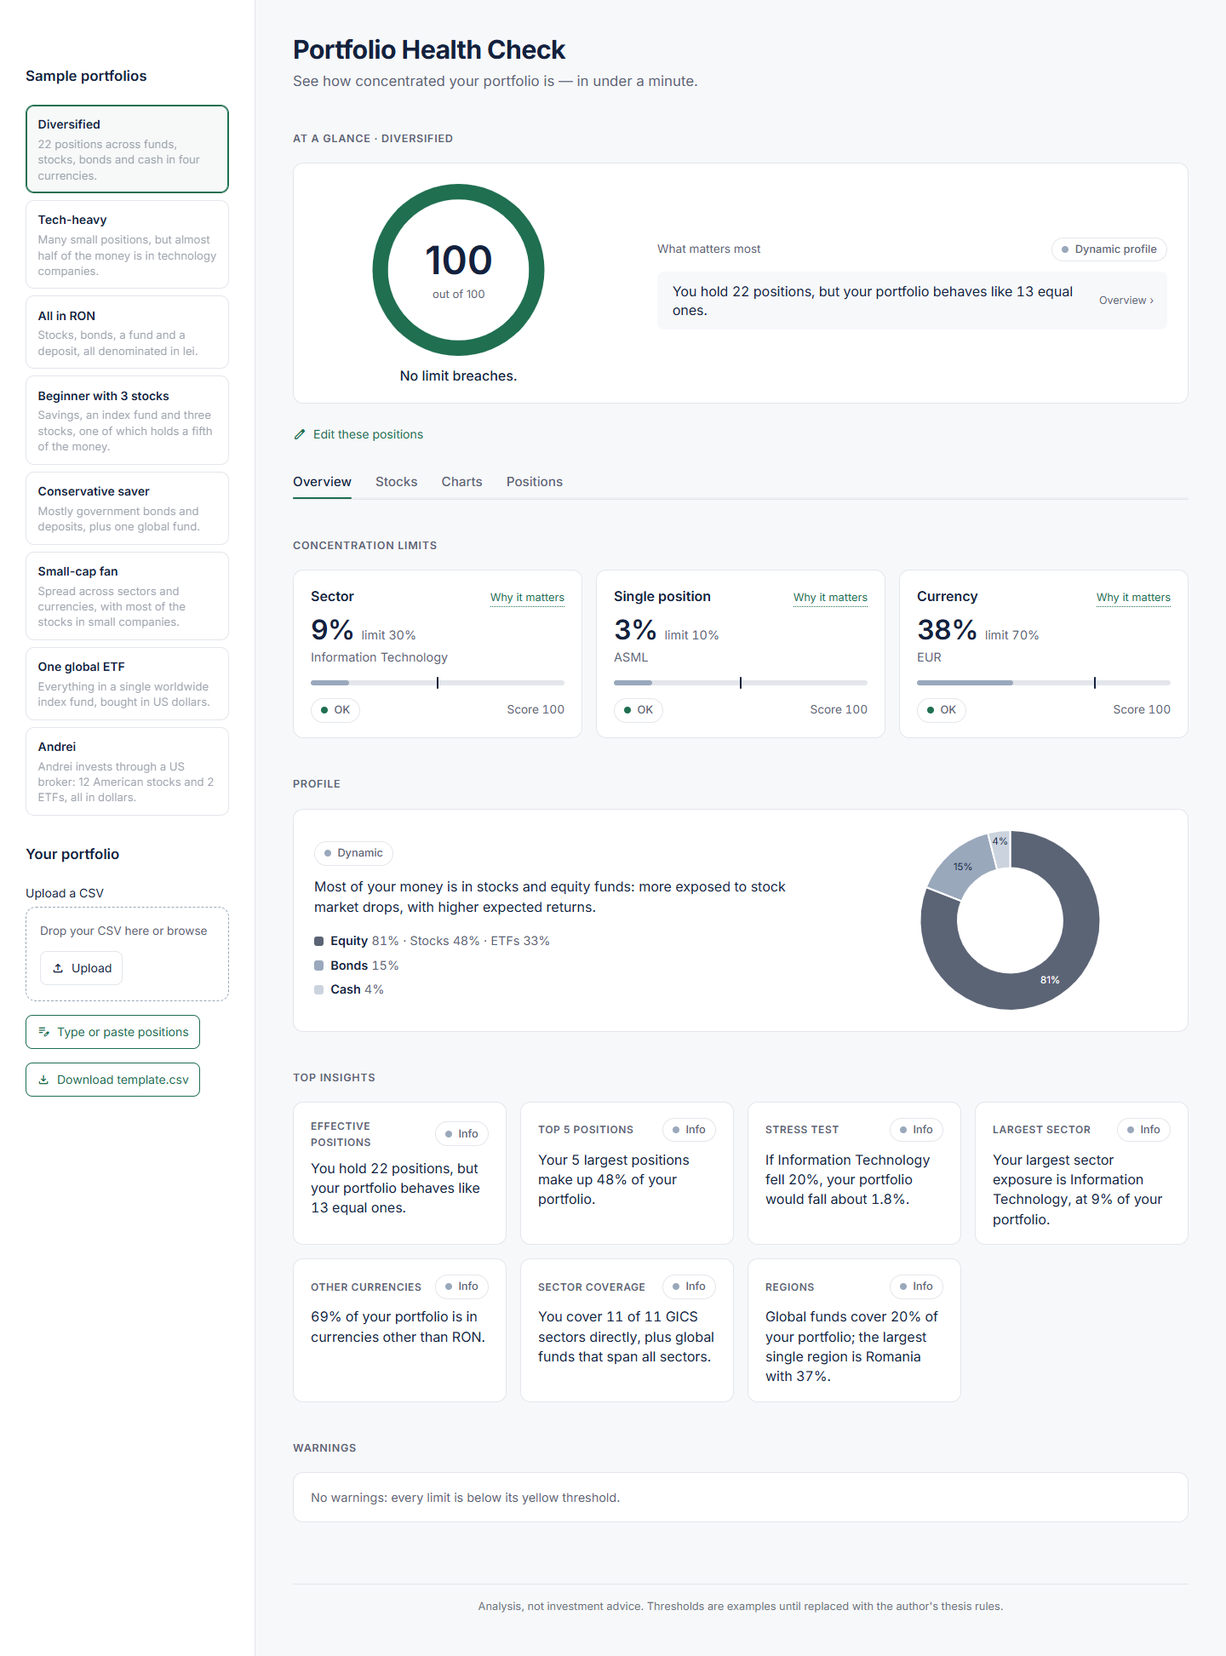
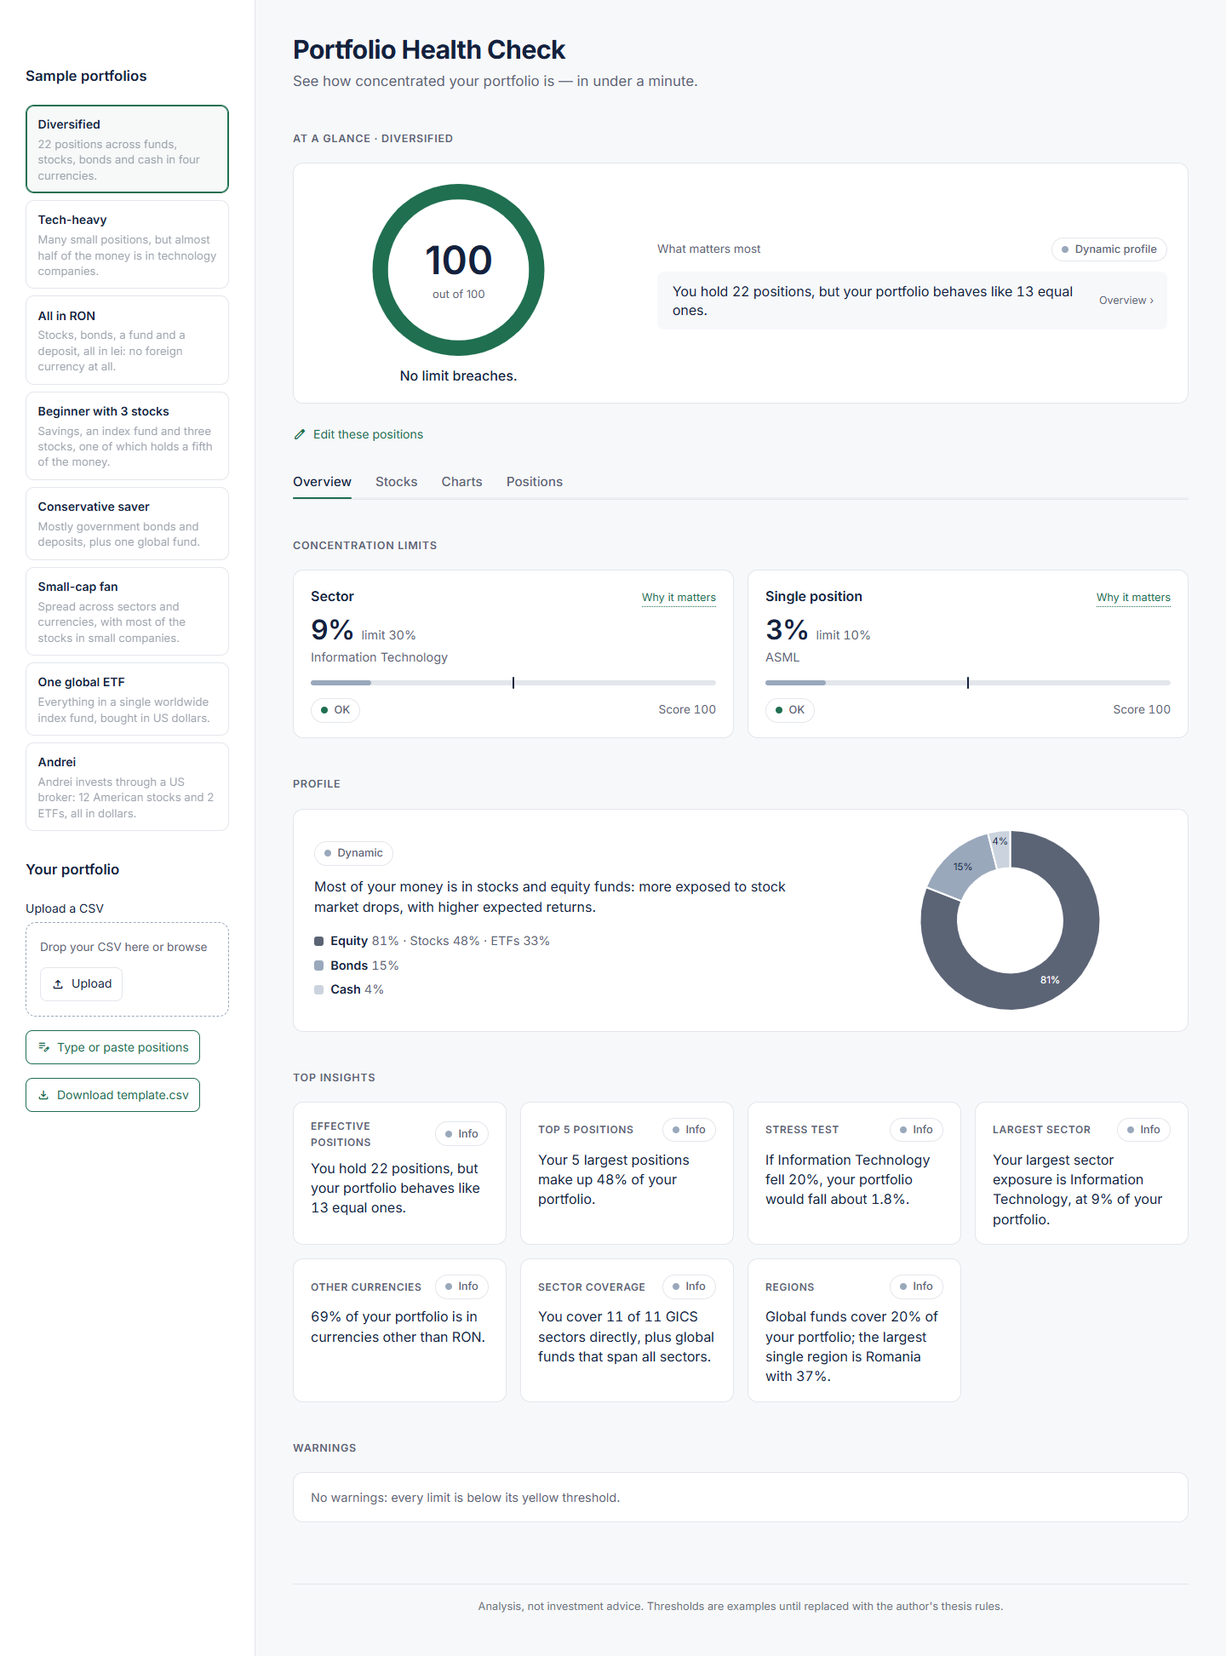
Make currency a note instead of a scored limit (S1-24, S1-16)
Currency no longer counts in the score: the score comes from the sector
and single-position limits. A neutral note appears when one foreign
currency holds a large share of the portfolio; the leu never counts.
Decision and sources in docs/decisions.md (D1).

diff --git a/tests/test_scoring.py b/tests/test_scoring.py
@@ -16,7 +16,6 @@ FIXTURES = Path(__file__).parent / "fixtures"
 
 SECTOR = rules.LIMITS["sector"]
 ASSET = rules.LIMITS["asset"]
-CURRENCY = rules.LIMITS["currency"]
 
 
 def make(rows, region=True):
@@ -37,16 +36,16 @@ def sample(file_name):
 # Sample portfolios: every expected result fixed explicitly
 # ---------------------------------------------------------------------------
 
-# file -> (sector, asset, currency, score, profile, notes)
+# file -> (sector, asset, score, profile, notes)
 EXPECTED = {
-    "diversified.csv": (GREEN, GREEN, GREEN, 100, "Dynamic", []),
-    "tech_heavy.csv": (RED, GREEN, GREEN, 83, "Dynamic", []),
-    "all_in_ron.csv": (GREEN, GREEN, RED, 85, "Balanced", []),
-    "beginner_3_stocks.csv": (GREEN, RED, GREEN, 73, "Balanced", []),
-    "conservative_saver.csv": (GREEN, GREEN, GREEN, 100, "Conservative", []),
-    "small_cap_fan.csv": (GREEN, GREEN, GREEN, 100, "Dynamic", ["small_cap"]),
-    "one_global_etf.csv": (GREEN, GREEN, RED, 85, "Dynamic", []),
-    "andrei.csv": (GREEN, YELLOW, RED, 81, "Dynamic", ["large_cap", "region"]),
+    "diversified.csv": (GREEN, GREEN, 100, "Dynamic", []),
+    "tech_heavy.csv": (RED, GREEN, 75, "Dynamic", []),
+    "all_in_ron.csv": (GREEN, GREEN, 100, "Balanced", []),
+    "beginner_3_stocks.csv": (GREEN, RED, 60, "Balanced", []),
+    "conservative_saver.csv": (GREEN, GREEN, 100, "Conservative", []),
+    "small_cap_fan.csv": (GREEN, GREEN, 100, "Dynamic", ["small_cap"]),
+    "one_global_etf.csv": (GREEN, GREEN, 100, "Dynamic", ["currency"]),
+    "andrei.csv": (GREEN, YELLOW, 94, "Dynamic", ["large_cap", "region", "currency"]),
 }
 
 
@@ -59,14 +58,14 @@ def test_every_sample_is_listed():
 def test_sample_limit_statuses(file_name):
     analysis = sample(file_name)
     statuses = tuple(r.status for r in analysis.limits)
-    assert [r.key for r in analysis.limits] == ["sector", "asset", "currency"]
-    assert statuses == EXPECTED[file_name][:3]
+    assert [r.key for r in analysis.limits] == ["sector", "asset"]
+    assert statuses == EXPECTED[file_name][:2]
 
 
 @pytest.mark.parametrize("file_name", EXPECTED)
 def test_sample_score_profile_and_notes(file_name):
     analysis = sample(file_name)
-    _, _, _, score, profile, notes = EXPECTED[file_name]
+    _, _, score, profile, notes = EXPECTED[file_name]
     assert analysis.score == score
     assert analysis.profile.name == profile
     assert [n.key for n in analysis.notes] == notes
@@ -100,14 +99,12 @@ def test_tech_heavy_sector_is_technology_45_percent():
 
 def test_andrei_at_a_glance():
     analysis = sample("andrei.csv")
-    assert analysis.verdict == "2 issues. The most serious: currency (USD 100%)."
+    assert analysis.verdict == "1 issue: single position (Apple 8%)."
     assert [(row.status, row.tab) for row in analysis.glance] == [
-        (RED, "Overview"),
         (YELLOW, "Overview"),
         ("", "Stocks"),
     ]
-    assert analysis.glance[0].text == "Currency USD: 100% (limit 70%)"
-    assert analysis.glance[1].text == "Position Apple: 8% (limit 10%) and 6 more"
+    assert analysis.glance[0].text == "Position Apple: 8% (limit 10%) and 6 more"
 
 
 def test_one_global_etf_region_is_global():
@@ -160,7 +157,7 @@ def test_graded_score(weight, expected):
 
 
 def test_overall_score_is_rounded_mean():
-    # sector 100, asset 88 (8%), currency 80 (70%) -> 89.33 -> 89
+    # sector 100, asset 88 (8%) -> 94; currency is a note, not a limit
     df = make(
         [
             ("A", 8, "Information Technology", "stock", "large", "USD", "US"),
@@ -169,8 +166,8 @@ def test_overall_score_is_rounded_mean():
         ]
     )
     analysis = scoring.analyze(df)
-    assert [round(r.score, 2) for r in analysis.limits] == [100, 88, 80]
-    assert analysis.score == 89
+    assert [round(r.score, 2) for r in analysis.limits] == [100, 88]
+    assert analysis.score == 94
 
 
 def test_round_half_up():
@@ -203,7 +200,6 @@ def test_warnings_sorted_red_then_yellow_then_size():
     )
     texts = [w.text for w in scoring.analyze(df).warnings]
     assert texts == [
-        "Currency USD: 100% (limit 70%)",
         "Position A: 12% (limit 10%)",
         "Position C: 9% (limit 10%)",
         "Position B: 6% (limit 10%)",
@@ -283,12 +279,13 @@ def stocks_by_cap(small, mid, large, region_share=0.5):
         ("Large Co", large, "Health Care", "stock", "large", "RON", "Romania"),
     ]
     rows = [r for r in rows if r[1] > 0]
-    rows.append(("Fund", 300, "Diversified", "ETF", "n/a", "EUR", "Global"))
+    rows.append(("Fund", 300, "Diversified", "ETF", "n/a", "RON", "Global"))
     return make(rows)
 
 
-def note_keys(df, has_region=True):
-    return [n.key for n in scoring.exposure_notes(df, has_region)]
+def note_keys(df, has_region=True, ignore=("currency",)):
+    """Notes raised for a portfolio; the currency note is left out unless asked for."""
+    return [n.key for n in scoring.exposure_notes(df, has_region) if n.key not in ignore]
 
 
 def test_small_cap_note():
@@ -328,6 +325,38 @@ def test_single_region_note():
 def test_global_does_not_trigger_region_note():
     df = make([("World", 100, "Diversified", "ETF", "n/a", "USD", "Global")])
     assert note_keys(df) == []
+
+
+def foreign_share(usd_percent):
+    return make(
+        [
+            ("US fund", usd_percent, "Diversified", "ETF", "n/a", "USD", "US"),
+            ("Deposit", 100 - usd_percent, "n/a", "cash", "n/a", "RON", "Romania"),
+        ]
+    )
+
+
+def test_currency_is_a_note_not_a_limit():
+    analysis = scoring.analyze(foreign_share(90))
+    assert [r.key for r in analysis.limits] == ["sector", "asset"]
+    note = next(n for n in analysis.notes if n.key == "currency")
+    assert note.headline == "90% of your portfolio is in USD."
+    assert "lose value in lei" in note.text
+    other = next(i for i in analysis.insights if i.key == "other_currencies")
+    assert other.label == "Watch"
+
+
+def test_currency_note_threshold_and_ron():
+    assert "currency" in note_keys(foreign_share(57), ignore=())
+    assert "currency" not in note_keys(foreign_share(56), ignore=())  # exactly the threshold
+    all_ron = make([("Deposit", 100, "n/a", "cash", "n/a", "RON", "Romania")])
+    assert "currency" not in note_keys(all_ron, ignore=())  # RON is never a currency risk
+
+
+def test_currency_chart_has_no_limit_line():
+    bars, limit = scoring.chart_data(sample("andrei.csv"), "currency")
+    assert limit is None
+    assert set(bars["status"]) == {GREEN}
 
 
 def test_portfolio_without_stocks():

diff --git a/scoring.py b/scoring.py
@@ -35,7 +35,7 @@ SAMPLE_PORTFOLIOS = {
     ),
     "all_in_ron.csv": (
         "All in RON",
-        "Stocks, bonds, a fund and a deposit, all denominated in lei.",
+        "Stocks, bonds, a fund and a deposit, all in lei: no foreign currency at all.",
     ),
     "beginner_3_stocks.csv": (
         "Beginner with 3 stocks",
@@ -138,7 +138,7 @@ STATUS_LABELS = {GREEN: "OK", YELLOW: "Watch", RED: "Over limit"}
 STATUS_RANK = {RED: 0, YELLOW: 1, GREEN: 2}
 
 # Word that starts a warning, e.g. "Position Apple: 8% (limit 10%)".
-WARNING_PREFIX = {"sector": "Sector", "asset": "Position", "currency": "Currency"}
+WARNING_PREFIX = {"sector": "Sector", "asset": "Position"}
 
 # Dimensions offered in the Charts tab.
 CHART_DIMENSIONS = {
@@ -541,6 +541,14 @@ def limit_weights(df: pd.DataFrame, key: str) -> pd.Series:
     return shares.sort_values(ascending=False, kind="stable")
 
 
+def largest_foreign_currency(df: pd.DataFrame) -> tuple[str, float]:
+    """Largest single currency other than RON; ("", 0.0) if everything is in RON."""
+    currencies = weights(df, "currency").drop(HOME_CURRENCY, errors="ignore")
+    if currencies.empty:
+        return "", 0.0
+    return currencies.index[0], float(currencies.iloc[0])
+
+
 def largest_region(df: pd.DataFrame) -> tuple[str, float]:
     """Largest single region, Global excluded; ("", 0.0) if there is none."""
     regions = weights(df, "region").drop(GLOBAL_REGION, errors="ignore")
@@ -686,6 +694,17 @@ def exposure_notes(df: pd.DataFrame, has_region: bool) -> list[Note]:
                 "Charts › Region",
             )
         )
+    currency, share = largest_foreign_currency(df)
+    if share > rules.FOREIGN_CURRENCY_NOTE + EPS:
+        notes.append(
+            Note(
+                "currency",
+                f"{fmt_pct(share)} of your portfolio is in {currency}. If {currency} falls "
+                "against the leu, these holdings lose value in lei. Over long periods this "
+                "tends to matter less than company and sector risk.",
+                "Charts › Currency",
+            )
+        )
     return notes
 
 
@@ -693,10 +712,9 @@ def insights_for(
     df: pd.DataFrame, limits: list[LimitResult], notes: list[Note], has_region: bool
 ) -> list[Insight]:
     """Plain-language facts. "Watch" when the same dimension already has a
-    yellow or red limit (or the region note); "Info" otherwise."""
+    yellow or red limit (or a region or currency note); "Info" otherwise."""
     flagged = {r.key for r in limits if r.status != GREEN}
-    if any(n.key == "region" for n in notes):
-        flagged.add("region")
+    flagged |= {n.key for n in notes if n.key in ("region", "currency")}
 
     def label(key: str) -> str:
         return "Watch" if key in flagged else "Info"

diff --git a/rules.py b/rules.py
@@ -30,13 +30,10 @@ LIMITS = {
         "limit": 0.10,  # EXAMPLE
         "why": "A single company's bad news can move your whole portfolio.",  # EXAMPLE
     },
-    "currency": {
-        "label": "Currency",
-        "yellow_from": 0.56,  # EXAMPLE
-        "limit": 0.70,  # EXAMPLE
-        "why": "If that currency weakens against the leu, your portfolio loses value in lei.",  # EXAMPLE
-    },
 }
+# Currency is not a scored limit (decision of 29 Oct 2026, see docs/decisions.md):
+# over long horizons it matters less for stocks than company and sector risk,
+# so it is shown as an exposure note instead (FOREIGN_CURRENCY_NOTE below).
 
 # The 11 official GICS sectors (not an example: this is the standard).
 GICS_SECTORS = (
@@ -103,6 +100,10 @@ LARGE_NOTE_SHARE = 0.90  # EXAMPLE
 
 # Region note: one region (Global excluded) above this share of the portfolio.
 SINGLE_REGION_NOTE = 0.80  # EXAMPLE
+
+# Currency note: one foreign currency (anything but RON) above this share of the
+# portfolio. Same value as the old currency limit's yellow threshold.
+FOREIGN_CURRENCY_NOTE = 0.56  # EXAMPLE
 
 # Stress test: drop applied to the largest sector.
 STRESS_DROP = 0.20  # EXAMPLE

diff --git a/app.py b/app.py
@@ -675,7 +675,7 @@ def start_screen() -> None:
             "Choose a portfolio",
             "Pick a sample in the side panel, upload a CSV, or type your positions.",
         ),
-        ("See your score", "One number from 0 to 100, built from three concentration limits."),
+        ("See your score", "One number from 0 to 100, built from two concentration limits."),
         ("Read the details", "Limits, stocks, charts and every position, one tab each."),
     ]
     cards = "".join(
@@ -825,10 +825,9 @@ def charts_tab(analysis: scoring.Analysis) -> None:
     show_chart(bar_chart(bars, limit))
     if dimension in ("sector", "asset"):
         st.html('<div class="phc-muted">Broad ETFs, bonds and cash are exempt from this limit and stay grey.</div>')
-    if dimension == "region":
-        for note in analysis.notes:
-            if note.key == "region":
-                st.html(note_card(note.text))
+    for note in analysis.notes:
+        if note.key == dimension:  # the region and currency notes sit under their charts
+            st.html(note_card(note.text))
 
 
 def positions_tab(analysis: scoring.Analysis) -> None:

diff --git a/README.md b/README.md
@@ -1,8 +1,8 @@
 # Portfolio Health Check
 
-Portfolio Health Check is a local web tool that shows an individual investor, in under a minute, how concentrated their portfolio is. You pick a sample portfolio, upload a CSV, or type your positions straight into the app. The app gives a score from 0 to 100, based on three concentration limits: sector, single position and currency. It then lists what to look at first, compares every figure with its threshold, and adds plain-language insights about asset classes, market cap and regions. It is analysis, not investment advice.
+Portfolio Health Check is a local web tool that shows an individual investor, in under a minute, how concentrated their portfolio is. You pick a sample portfolio, upload a CSV, or type your positions straight into the app. The app gives a score from 0 to 100, based on two concentration limits: sector and single position. It then lists what to look at first, compares every figure with its threshold, and adds plain-language insights about asset classes, market cap and regions. It is analysis, not investment advice.
 
-![At a glance and the three limits for a sample portfolio](docs/screenshots/andrei-overview-desktop.png)
+![At a glance and the concentration limits for a sample portfolio](docs/screenshots/andrei-overview-desktop.png)
 
 ## Quick start on Windows
 
@@ -53,13 +53,12 @@ The app opens at http://localhost:8501. Run the tests with `pytest`.
 
 ## How to read the score
 
-The score is the average of three limit scores (sector, single position, currency), rounded to a whole number. Each limit scores 100 while its largest weight stays below the yellow threshold, falls linearly from 100 to 80 between the yellow threshold and the limit, and above the limit scores 80 − 60 × min(weight / limit − 1, 1), so never less than 20.
+The score is the average of two limit scores (sector and single position), rounded to a whole number. Each limit scores 100 while its largest weight stays below the yellow threshold, falls linearly from 100 to 80 between the yellow threshold and the limit, and above the limit scores 80 − 60 × min(weight / limit − 1, 1), so never less than 20.
 
 | Limit | Watch from | Limit | Not counted |
 |---|---|---|---|
 | Sector | 24% | 30% | Diversified, n/a |
 | Single position | 5% | 10% | broad ETFs, bonds, cash |
-| Currency | 56% | 70% | – |
 
 All thresholds live in [rules.py](rules.py) and are examples (see Known limitations).
 
@@ -67,7 +66,8 @@ All thresholds live in [rules.py](rules.py) and are examples (see Known limitati
 
 - **Asset classes:** the share of bonds and cash sets a profile (Conservative, Balanced or Dynamic). There is no right mix: it depends on the investor's profile, so it is described, not scored.
 - **Market cap:** the stocks' small / mid / large split is compared with the US market. A note appears when small caps are well above the market share or when almost everything is large cap. As with asset classes, the right mix depends on the investor, so it does not affect the score.
-- **Region:** the region of the company or fund, not of the currency, so it measures something different from the currency limit. It is shown as a note, not scored: the note appears when one region (Global funds excluded) holds most of the portfolio.
+- **Currency:** a note, not a limit ([decision D1](docs/decisions.md)). It appears when one foreign currency holds most of the portfolio. Over long periods currency moves matter less for stocks than company and sector risk, and the leu never counts, since it is the investor's own currency. The currency is the one the asset is listed in, not the one the company earns in.
+- **Region:** the region of the company or fund, not of the currency, so it measures something different from the currency note. It is shown as a note, not scored: the note appears when one region (Global funds excluded) holds most of the portfolio.
 - **Insights:** effective number of positions, top 5 share, largest sector, a stress test on that sector, share outside RON, GICS sector coverage and regions. Each insight is labelled Info or Watch and has no effect on the score.
 
 ## CSV format
@@ -102,6 +102,8 @@ The 11 official GICS sectors: Energy, Materials, Industrials, Consumer Discretio
 - CRSP US Total Market Index, factsheet (cap segments). Center for Research in Security Prices.
 - Banz, R. W. (1981). The relationship between return and market value of common stocks. *Journal of Financial Economics*, 9(1), 3–18.
 - Fama, E. F., & French, K. R. (1993). Common risk factors in the returns on stocks and bonds. *Journal of Financial Economics*, 33(1), 3–56.
+- Froot, K. A. (1993). Currency hedging over long horizons. NBER Working Paper 4355.
+- Campbell, J. Y., Serfaty-de Medeiros, K., & Viceira, L. M. (2010). Global currency hedging. *Journal of Finance*, 65(1), 87–121.
 - Directive 2009/65/EC (UCITS), Article 52: the 5/10/40 diversification rule for funds.
 - U.S. Securities and Exchange Commission, EDGAR company tickers, submissions and XBRL frames (public float) APIs.
 - OpenFIGI, Open Symbology API (Bloomberg; FIGI under the MIT licence).

diff --git a/docs/decisions.md b/docs/decisions.md
@@ -1,0 +1,23 @@
+# Product decisions
+
+## D1 – Currency is a note, not part of the score (29 Oct 2026)
+
+**Context.** The score used three limits: sector, single position and currency. A portfolio held all in lei scored red on currency, although for someone who earns in lei, the leu is not a currency risk (feedback at the Daily Scrum, 28–29 Oct). The question behind S1-24 was how currency should count at all.
+
+**Decision.** Currency is no longer a scored limit. The score comes from two limits: sector and single position. When one foreign currency (anything but RON) holds a large share of the portfolio, the app shows a neutral note:
+> "90.3% of your portfolio is in USD. If USD falls against the leu, these holdings lose value in lei. Over long periods this tends to matter less than company and sector risk."
+
+**Why.**
+- Over long horizons, exchange rates tend to move back towards what prices and inflation justify, so currency effects partly even out. Froot (1993) shows that hedging currency risk matters a lot over short horizons and much less over long ones.
+- For stocks, currency moves are smaller than the moves of the companies and sectors themselves, which the two limits already measure.
+- For a Romanian investor, holding foreign currencies can lower risk rather than raise it. Some currencies, such as the US dollar, tend to rise when stock markets fall (Campbell, Serfaty-de Medeiros and Viceira, 2010).
+
+**Consequences.**
+- The leu never triggers anything, so S1-16 is solved by this decision.
+- Scores change: Tech-heavy 83 → 75, Beginner 73 → 60, Andrei 81 → 94, All in RON and One global ETF 85 → 100.
+- One global ETF and Andrei now show the currency note instead of a red limit.
+- Still open: currency matters more for bonds and cash held in a foreign currency, and for money needed soon in lei. The note threshold (56%) is an example value.
+
+**Sources.**
+- Froot, K. A. (1993). Currency hedging over long horizons. NBER Working Paper 4355.
+- Campbell, J. Y., Serfaty-de Medeiros, K., & Viceira, L. M. (2010). Global currency hedging. *Journal of Finance*, 65(1), 87–121.

diff --git a/docs/product-features.md b/docs/product-features.md
@@ -16,7 +16,7 @@ What a user can see and do in Portfolio Health Check.
 | | Complete a CSV that only has names and values, in one click | Done | 28 Oct |
 | | Start your own portfolio from any sample ("Edit these positions") and save it as a CSV | Done | 28 Oct |
 | | Start the app on Windows with a double-click | Done | 28 Oct |
-| **Score and limits** | Get one score from 0 to 100, built from three limits: sector, single position and currency | Done | 27 Oct |
+| **Score and limits** | Get one score from 0 to 100, built from two limits: sector and single position (currency was a third limit until 29 Oct) | Done | 27 Oct |
 | | See each limit as OK, Watch or Over limit, next to its threshold, with "Why it matters" | Done | 27 Oct |
 | | Broad funds, bonds and cash do not count against the sector and single-position limits | Done | 27 Oct |
 | | See every warning, the most serious first | Done | 27 Oct |
@@ -33,6 +33,7 @@ What a user can see and do in Portfolio Health Check.
 | **Exposure notes** | Compare your stocks' company sizes with the US market | Done | 27 Oct |
 | | Get a note when small companies are well above the market share, or when almost everything is a large company | Done | 27 Oct |
 | | Get a note when one region holds most of your portfolio | Done | 27 Oct |
+| | Get a note when one foreign currency holds most of your portfolio; the leu never counts | Done | 29 Oct |
 | | Click a stock to see its sector, size, region and weight | Done | 27 Oct |
 | **Charts** | See bars by sector, currency, position or region, largest first, with the limit as a dotted line | Done | 27 Oct |
 | | See every position in a table, with values in lei and weights in % | Done | 27 Oct |

diff --git a/CHANGELOG.md b/CHANGELOG.md
@@ -2,6 +2,10 @@
 
 ## v0.1 – MVP (in progress)
 
+### 29 Oct 2026
+- Currency is no longer part of the score. When one foreign currency holds most of your portfolio, a note explains what that means in lei. Money in lei never counts as a currency risk.
+- The score now comes from two limits: sector and single position.
+
 ### 28 Oct 2026
 - You can type or paste your positions straight into the app.
 - Type only a name or ticker and its value: sector, type, size, currency and region fill in by themselves. They come from a built-in list of about 220 well-known stocks and funds, and from free, open sources (the US regulator's public company database, SEC EDGAR, and OpenFIGI).
